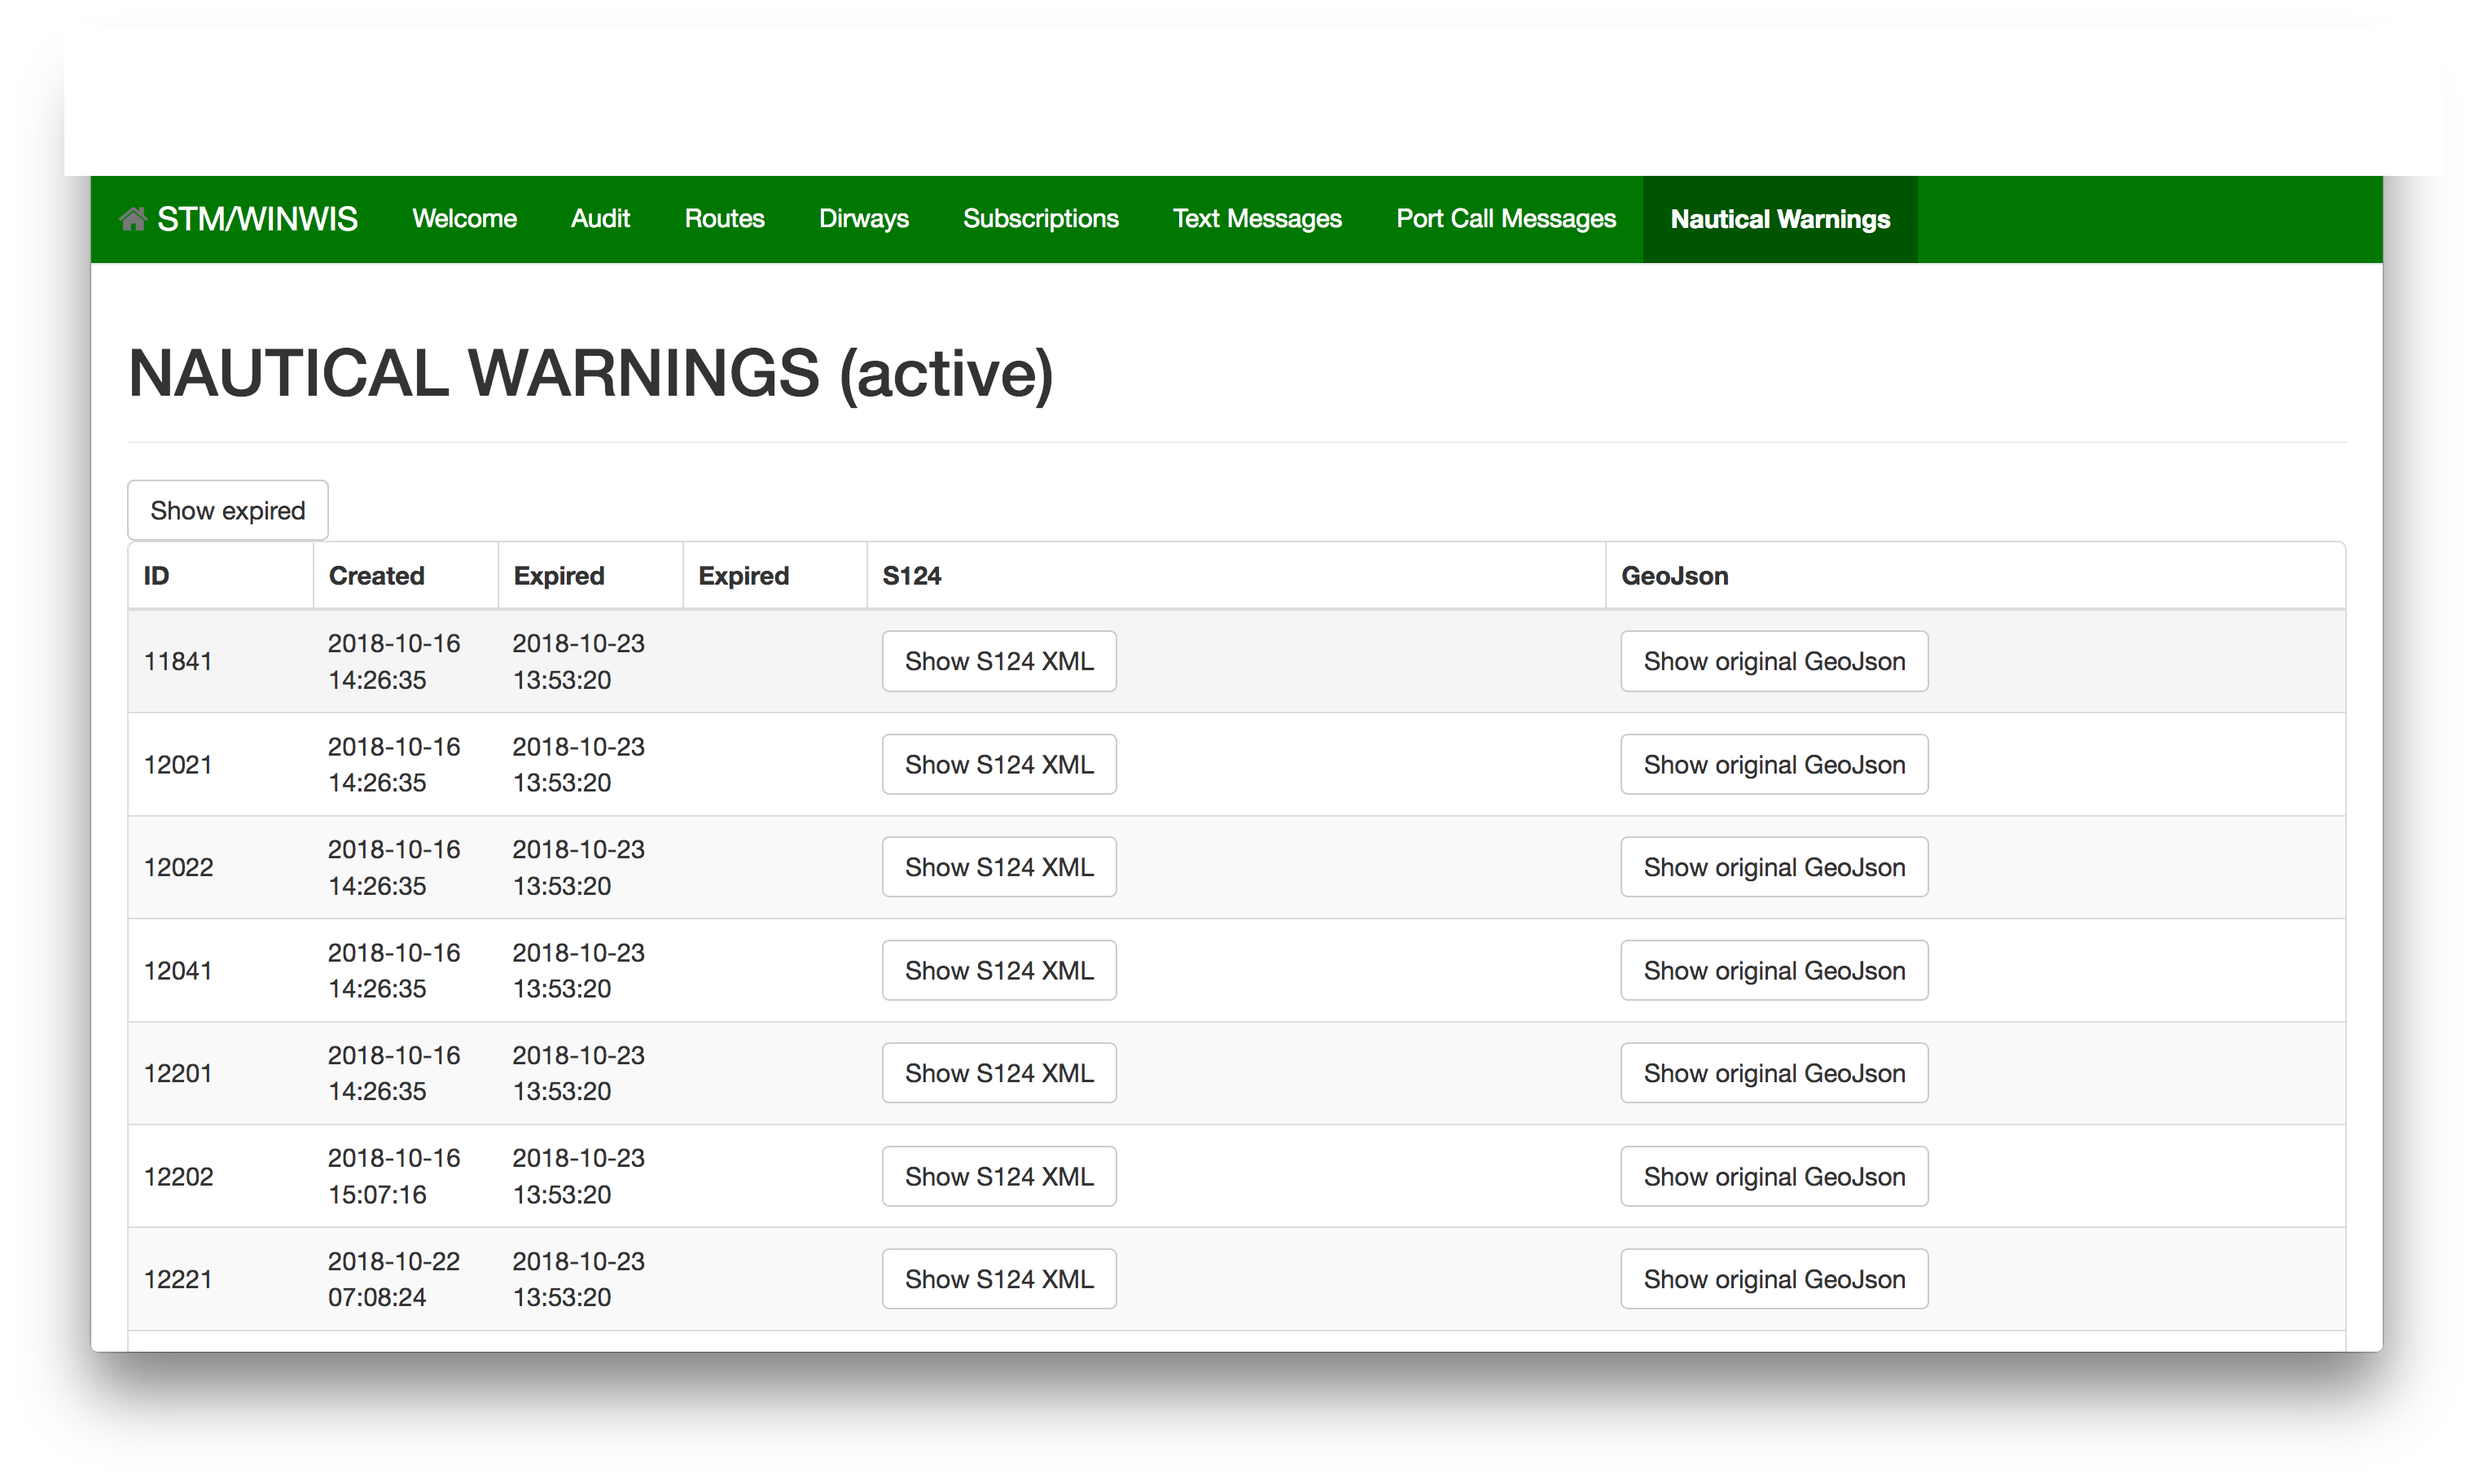
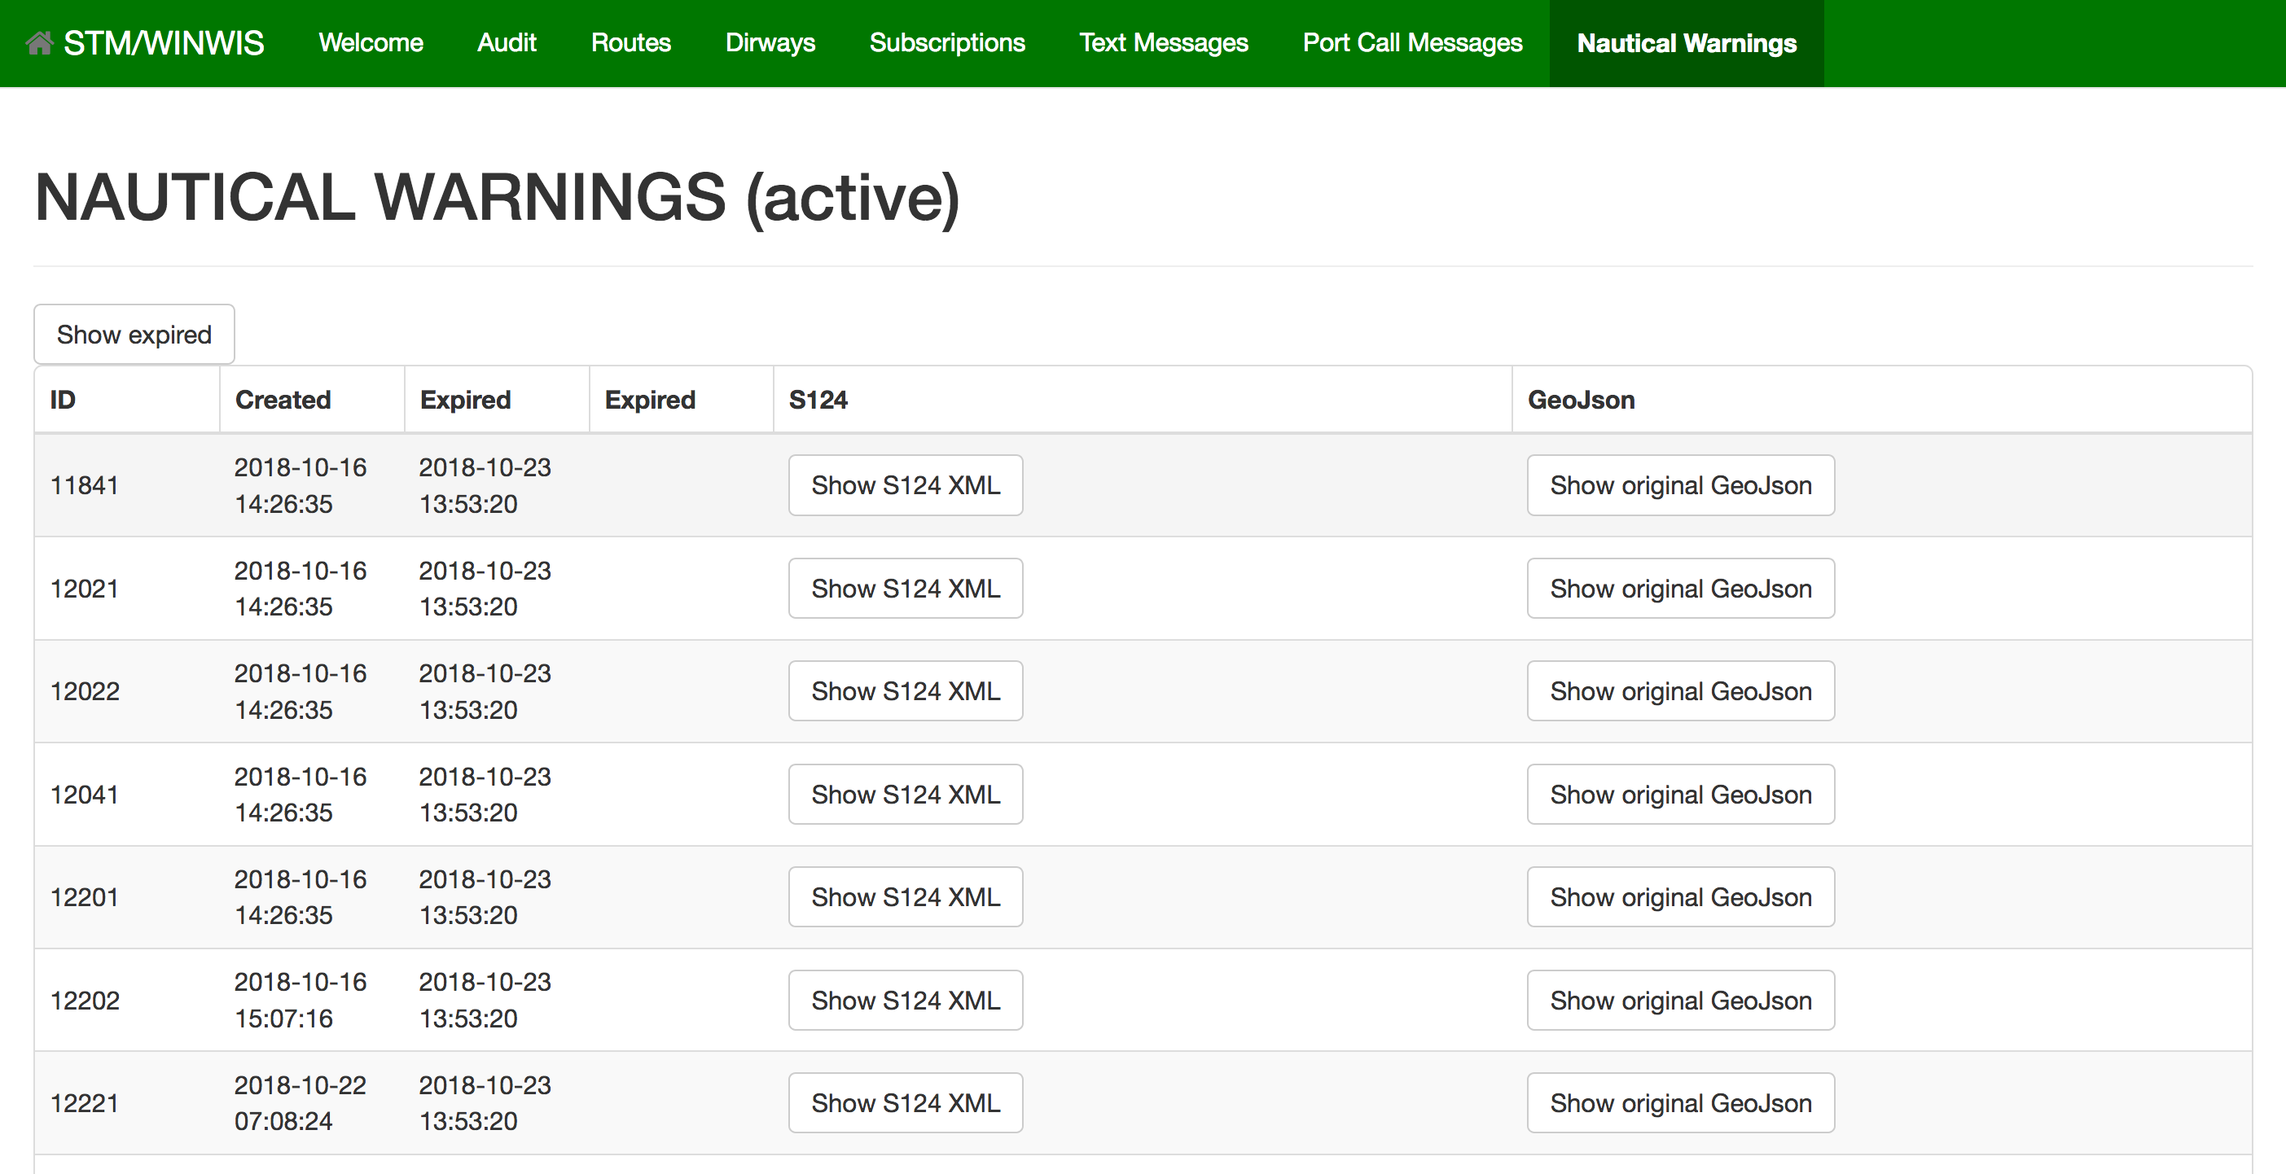
Editing for the blog text, cropping and adding some images

Changed region(s): [[0.0, 0.0, 1.0, 0.9674]]

diff --git a/_posts/2019-04-05-safer-and-cleaner-seas-stm.md b/_posts/2019-04-05-safer-and-cleaner-seas-stm.md
@@ -1,0 +1,100 @@
+---
+layout: post
+title: Safer and cleaner seas via Sea Traffic Management
+author: arto
+excerpt: Air traffic has been digitalized long ago. Now, the seas are going same route as well. Future holds much safer and cleaner marine traffic for all of us. 
+tags:
+- Environment
+- Project
+- Distributed
+- Java
+---
+
+Human errors can be expensive. When you are making decisions, and acting on them while not fully concentrated, it leaves room for mistakes. Typical human error might be writing your address wrong when ordering an item. Or copying single digit of bank account number wrong, from a handwritten note. Perhaps you are acting on too little information, or are in a hurry. Those mistakes happen everyday to someone. In most cases they can be recovered from by a bit of extra work, no harm done.
+
+![Accidents at sea (source listed at end of arcticle)](/img/safer-and-cleaner-seas/marine_casualty_information.png)
+
+Mistakes that happen when operating a moving vehicle or any kind, such as car, train, ship or an airplane, are typically much more severe. These mistakes are not just about mild embarrassment or some monetary cost. Any mistakes involving a moving vehicle typically bring much higher costs to recover. Sometimes they may even result in environmental disasters, bodily harm, or even loss of life. Doing routine work that has to be repeated just right is a big reason for human errors.
+
+This is typically why any kind of professional transportation uses multiple overlapping safety controls in place to prevent any accidents. Still, sometimes things manage to go wrong, and accidents do happen. Sometimes it's a matter of failing equipment or parts, but often it can also be attributes to mistakes in judgement, not being informed enough, trusting bad information, etc.
+
+### Optimization and Situational Awareness
+
+Another interesting topic is optimization. Some of the lesser mistakes do not have such severe outcomes, but they still cost time, money, and expend extra fuel resources. If we were able to optimize better, and avoid even smaller mistakes, it would instantly be beneficial to  both operating costs as well as the environment. Use less fuel, save some money, help save the planet. By optimizing things we can also expect to avoid some frustration from people who are running the ships, as well as people from the port authorities offices, pilots, ship owners, coast guard, tugs, etc.
+
+Finally, how about just improving feeling of safety and confidence, by improving situational awareness? This can be done by bringing the right information in right format, right time, for people who are making the decisions. Baseline for having any information outside your ships own sensors might have been at some point, and still very much is, radio traffic. Radio traffic itself is very prone for miscommunication, things get lost in translation, etc. There are protocols again to cope with this, but it's still difficult to get the situational awareness just right everytime. If only we had a better way...
+
+Well, one great part of working at Solita is that we sometimes get the opportunity to get a glimpse at the future, and even effect how it will look like. Those kinds of projects are the greatest, because they rechange the feeling that we can have an impact, we can make the future just a little bit brigther.
+
+### Sea Traffic Management
+
+Sea Traffic Management is an EU wide project, currently at Validation phase. There are various goals, but at the core of it is the optimization of sea traffic across EU. Optimization means here better efficiency, improved safety, and of course, better use of resources. 
+
+Here are the currently listed goals for full deployment of STM by year 2030 in relation to year 2015:
+- Safety: 50% reduction of accidents.
+- Efficiency: 10% reduction in voyage costs and 30% reduction in waiting time for berthing
+- Environment: 7% lower fuel consumption and 7% lower green house gas emissions.
+
+7% might sound low, 100% would certainly be much better. But on EU-wide scale, in year 2017, we spent 37 231 000 tonnes of fuel oil and gasoil combined. So using better optimization and coordination, we can still do much better. So, while waiting for better forms of energy to acquire wider use, optimization can bring those numbers down to more positive direction, already today. Achieve more, spend less. In other words, we are able to transport people, as well as items, cheaper than today. Possible, instead of polluting more and more, start polluting less and less every year. Meanwhile, new energy forms will certainly find their way in, and their use will be optimized as well, for further benefits.
+
+![STM Route shown on application screen (early draft)](/img/safer-and-cleaner-seas/fuel_consumption.png)
+
+Of course, being able to make everyday communication and information exchange more precise, can also have a pretty large impact on marine traffic. Today, human errors cause inefficiency, delays, increased costs. More severe mistakes of course have potential to cause much larger problems. Of course, computers make mistakes as well. But computer errors tend to be more systematic and predictable, and we have ways to lessen that likelihood, by applying professional software engineering principles. 
+
+### What did Solita have to do with Sea Traffic Management?
+
+Finnish Transport Agency was ant still is participating in STM project validation phase. Goal is to find ways to improve communications, mainly at Sea of Bothnia. For our northern hemisphere, icebreaking operations and ice condidtions are creating unique challenges and solutions for the STM project. A small team from Solita, among people from other software consultancies were working together to focus on STM validation aspect of another project.
+
+![Route visualization (early draft)](/img/safer-and-cleaner-seas/route_visualization.png)
+
+Technical part of what we were doing was nothing spectacular. Quite a big part of it was just moving files from place to another, sometimes producing them, sometimes visualizing them. Of course, baseline being radio traffic, even this was a big improvement. Interesting part was the constantly evolving standards, evolving goals and milestones, and how to fit all pieces together, also in line with the special needs our northern hemisphere creates. Of course, security was an essential facet to take care of.
+
+STM Validation was and still is a big project, with numerous teams working on different aspects in different places. Our main focus was the ice navigation, routing through ice more efficiently, without causing merchant ships to get stuck on difficult routes, causing delays. Additionally, how to communicate with Ice Breaker fleet so that existing pathways can be efficienctly reused. All this will naturally bring great savings in both cost and environmental impact. Another aspect was digitalizing communicatons between ports and vessels. This means better capabilities to estimate when ship is going to be leaving port or arriving to port, which can also help optimizing how icebreakers will be able to assist ships. Additionally, standards can be also used to route nautical warnings and even small text messages when conversing and optimizing routes.
+
+![Route editor](/img/safer-and-cleaner-seas/route_editing.png)
+
+![Visual Route editor](/img/safer-and-cleaner-seas/complex_route_editing.png)
+
+You have to note that before the STM project, there had not been a great common standard for digital communications at sea, when scope is any ships within EU. To be more precise, there had been multiple different standards. But this has lead to incompatibilities, and caused all communication in most cases preferring radio calls and freeform emails. Of course this communication takes place at sea, where weather conditions might bring a few more twists on how easy it is to communicate and understand eachothers.
+
+![Route information available in systems](/img/safer-and-cleaner-seas/route_and_vessel_popup.png)
+
+New RTZ format for routes is at its core a very simple XML schema, that can deliver basic route information, as well as some more interesting metadata. So from any internal route models or schemas, it's possible to transform RTZ version for transport. We created some visual route editors to help with the validation. Note that this part was not actual navigation tools, main goal here was to experiment and validate. But we still had to get the turn radiuses just right, on our projected map surface.
+
+![Turn radius calculations](/img/safer-and-cleaner-seas/turn_radius.png)
+
+### Technical solutions
+
+STM components and architecture are very simple, and platform agnostic. One big part is a set of standard schemas for specific messages. One of the first  schemas that we were working on was rtz route exchange format, which allows to exchange route information in many different lifecycle phases between parties. Ship might initiate conversation by exporting their planned route to rtz, then sending it to harbor or icebreaker for optimization. Receiving party can then apply some guidance for the route, for example advising to avoid specific area, or reroute via a waypoint where there's already a pathway in ice, suitable for ship in question. After optimization, new route suggestion may be sent back to ship, then imported into actual navigation systems for verification and usage.
+
+Few of the other useful standard formats are Port Call Message Format, and Area Exchange Format (S124), which can be used to deliver geolocation information such as specific point or area. There's also specification for generic Text Message Format, to deliver attachments, descriptions, or even chat messages between two parties. These together allows for example to share plans and updates on port arrival or departure, nautical warnings on areas to avoid, or to negotiate an optimal route that requires some discussion. Digitraffic already has excellent APIs making nautical warnings, so we simply converted that information, and made it available via STM channels in a wider scope.
+
+![Testing screen showing list of nautical warnings from Digitraffic, converted to STM S124 Area standard](/img/safer-and-cleaner-seas/nautical_warnings_test_screen.png)
+
+All of these standards can be used to replace traditional radio communication, which is very prone to human errors. Area, text and route information can be easily transported via existing simple channels, such as email attachments. Email systems are quite robust, and asynchronous, so to some extent they can also work over unreliable networks. 
+
+However, to achieve even more robust message delivery, STM has more parts that can be used to replace any email based communication. STM standard defines components called SeaSwim connectors, and Maritime Connectivity Platform. This means abstracting the communications protocol to a robust and secure platform that is able to identify parties using certificates, and deliver any standards-based messages securely over network, tolerating shaky/bad/missing network scenarios. There is also a registry for services and identities, which can be used to negotiate on how to communicate with a new, unknown party.
+
+![Seaswim Connector architecture](/img/safer-and-cleaner-seas/ssc_architecture.png)
+
+At the moment, STM is at validation phase, which means things are still moving and evolving rapidly. There are multiple small projects testing these standards and technologies from different viewpoints, to find any issues and fix them early. Some navigation devices are already being equipped with STM capabilities, meaning they are able to converse with STM services. Finnish and Swedish icebreakers have STM capabilities in their information systems, and are actively trialing them even as I am writing this blog article. Next year will bring even more devices to play. 
+
+### Conclusion
+
+Information available in STM network is already being used to supplement existing navigation systems and communication methods, making them more intelligent. Right now it's used just as one of the ways to cross-check information. Traditional ways of working are still the main way of working at sea. But one day soon, marine traffic will catch up with air traffic.
+
+Improved communicaton, more efficient use of resources, less pollution, are some of the short term benefits we are already enjoying. On longer term, we will probably see more intelligent algorithms taking over some of the routine work. Having more operational data available will definitely bring benefits for data analysis and larger scale optimizations as well. It seems future seas will be much safer than cleaner than they are today.
+
+Stay tuned.
+
+### Some links and references
+
+- [Finnish Transport Agency](https://vayla.fi/web/en)
+- [Digitraffic APIs](https://www.digitraffic.fi/)
+- [STM Validation Project](https://www.stmvalidation.eu/)
+- [Youtube: Sea Traffic Management (STM) 2018 - Status, Results and Future](https://www.youtube.com/watch?v=vutEjuR4r6c)
+- [STM Validation Phases](http://stmmasterplan.stmvalidation.eu/improvement-phases/)
+- [EU Wide Fuel Usage Statistics](https://www.fuelseurope.eu/publication/statistical-report-2018/)
+- [EMSA Analysis on Safety at Sea](http://www.emsa.europa.eu/infographics/item/3391-what-can-we-learn-from-the-analysis-on-ro-ro-ships.html)
+
+
